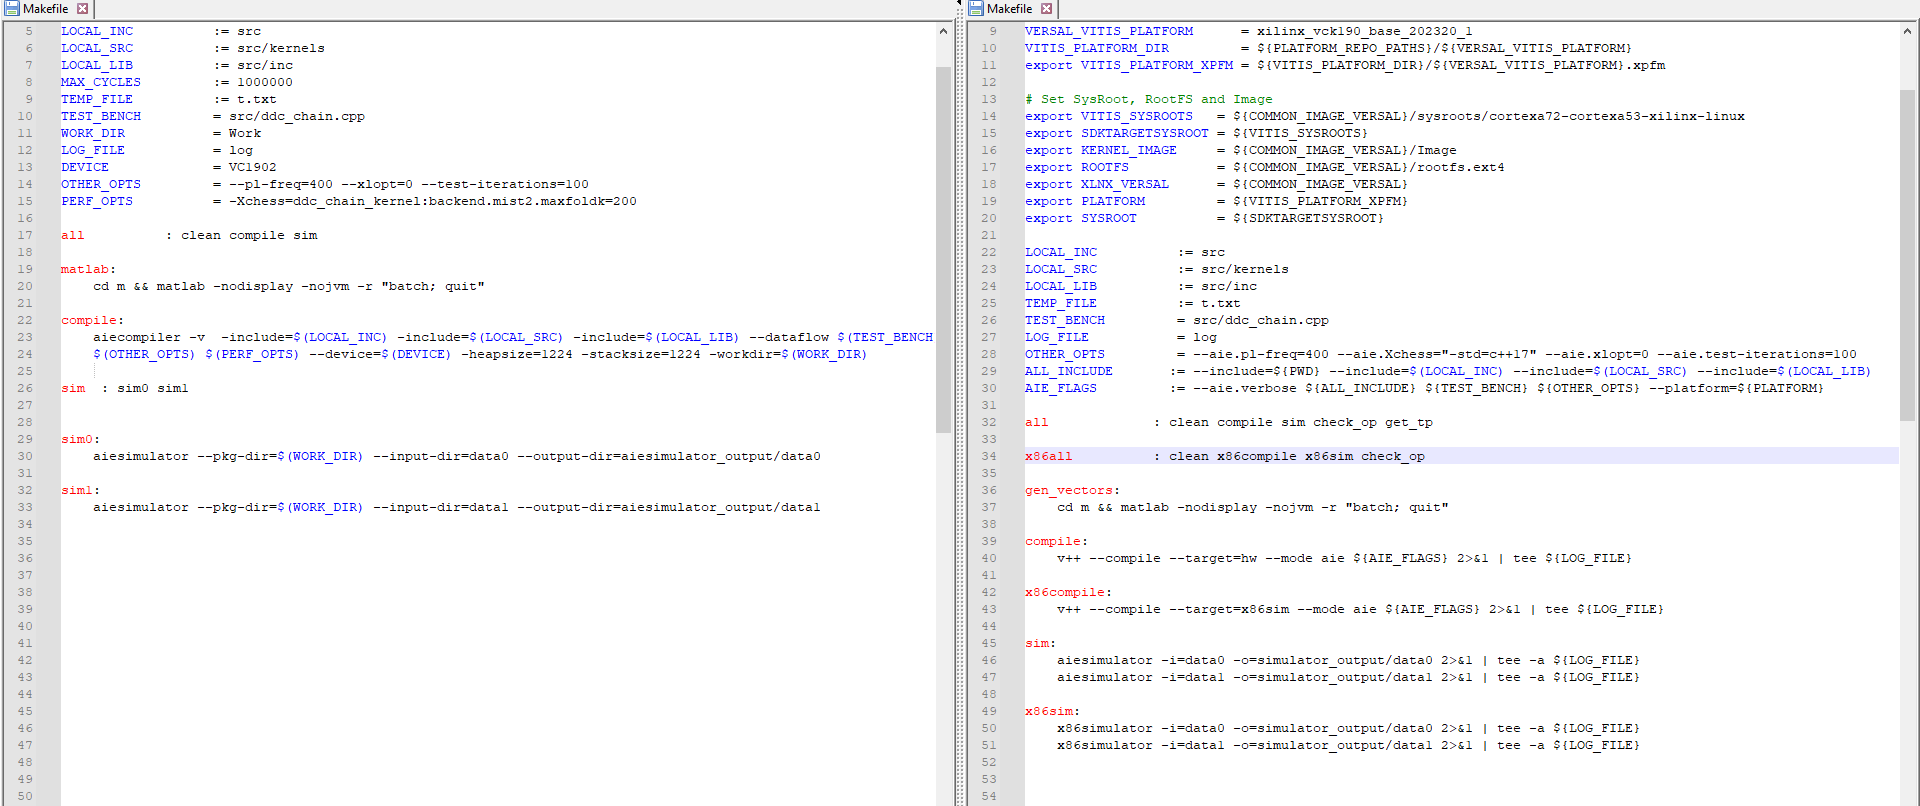
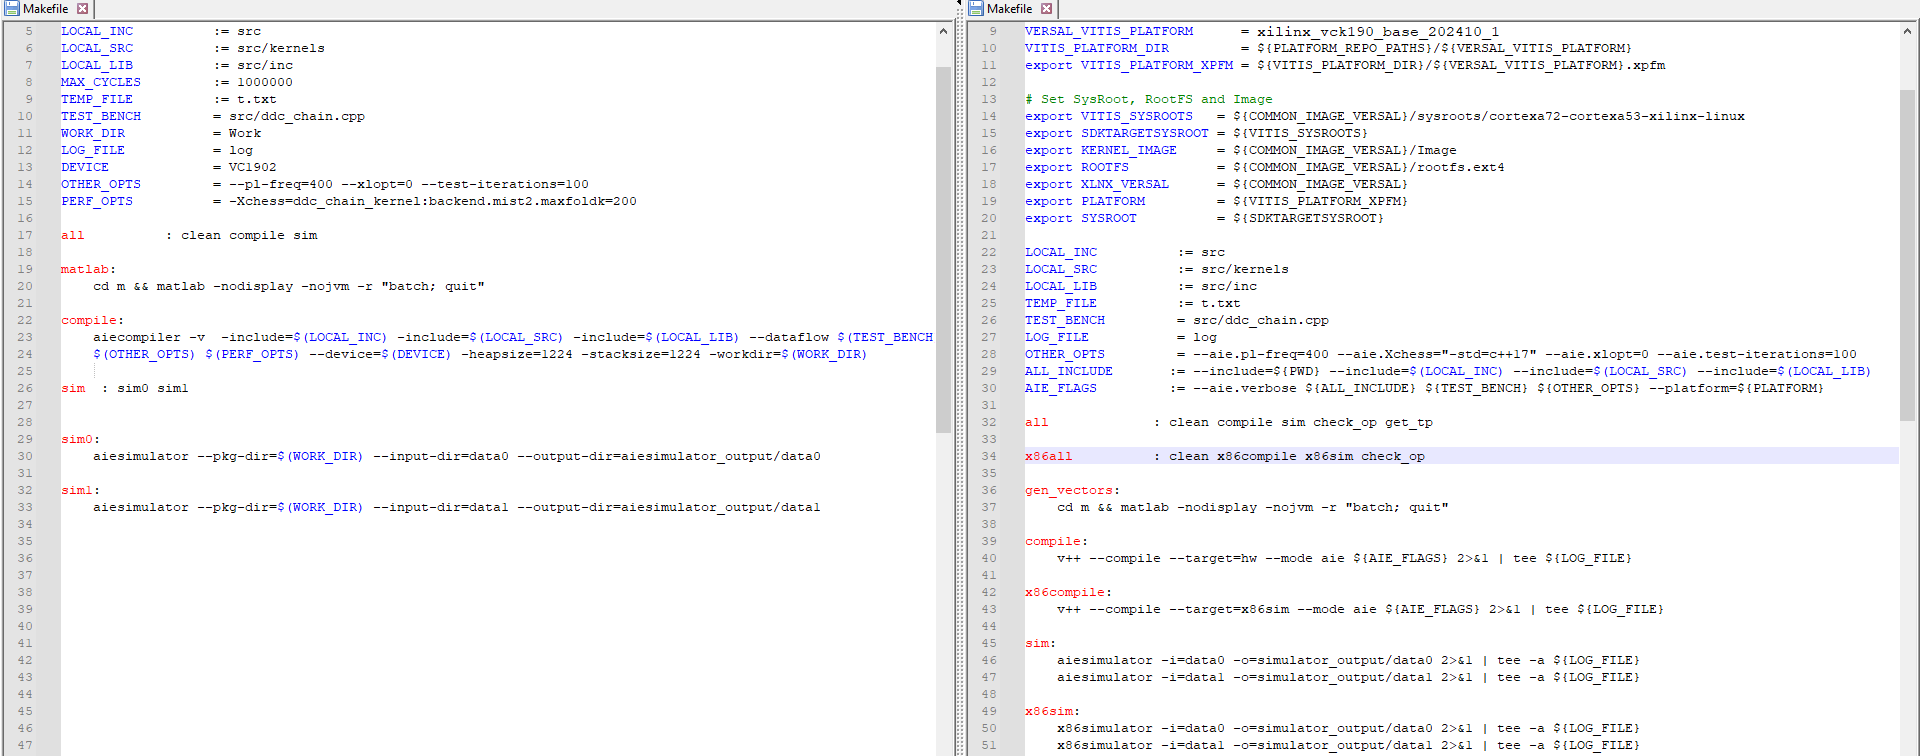
AIE/D/09-ddc_chain: Update for 2024.1

diff --git a/AI_Engine_Development/AIE/Design_Tutorials/09-ddc_chain/README.md b/AI_Engine_Development/AIE/Design_Tutorials/09-ddc_chain/README.md
@@ -14,7 +14,7 @@ SPDX-License-Identifier: MIT
 
 # Digital Down-conversion Chain: Converting from Intrinsics to API
 
-***Version: Vitis 2023.2***
+***Version: Vitis 2024.1***
 
 ## Table of Contents <!-- omit from toc -->
 
@@ -94,7 +94,7 @@ When creating the kernel in the upper graph or subgraph, use `kernel::create_obj
 
 ### Migrating from Windows to Buffers
 
-Windows I/O connections between kernels will be deprecated in the 2023.2 release of the AMD Vitis™ software platform. The AI Engine Kernel and Graph Programming Guide [(UG1079)](https://docs.xilinx.com/r/en-US/ug1079-ai-engine-kernel-coding/Comparison-between-Buffer-Ports-and-Windows) describes how the source code of a design should change to upgrade it to buffer I/Os. The following figures show the steps required (repeated for every kernel) to upgrade I/O connections from Windows to buffers.
+Windows I/O connections between kernels were deprecated in the 2023.2 release of the AMD Vitis™ software platform. The AI Engine Kernel and Graph Programming Guide [(UG1079)](https://docs.xilinx.com/r/en-US/ug1079-ai-engine-kernel-coding/Comparison-between-Buffer-Ports-and-Windows) describes how the source code of a design should change to upgrade it to buffer I/Os. The following figures show the steps required (repeated for every kernel) to upgrade I/O connections from Windows to buffers.
 
 1. Make the changes shown in the following figure in the ``kernel.cc`` file:
 
@@ -149,7 +149,7 @@ The 32-branch digital down-conversion design can be built using the command line
 The first step is to set the environment variable ```COMMON_IMAGE_VERSAL``` to the full path where you have downloaded the Versal platforms corresponding to your tool release. This edit should be done in the ```09-ddc_chain/Makefile``` file.
 
 ```shell
-VERSAL_VITIS_PLATFORM      = xilinx_vck190_base_202320_1
+VERSAL_VITIS_PLATFORM      = xilinx_vck190_base_202410_1
 VITIS_PLATFORM_DIR         = ${PLATFORM_REPO_PATHS}/${VERSAL_VITIS_PLATFORM}
 export VITIS_PLATFORM_XPFM = ${VITIS_PLATFORM_DIR}/${VERSAL_VITIS_PLATFORM}.xpfm
 
